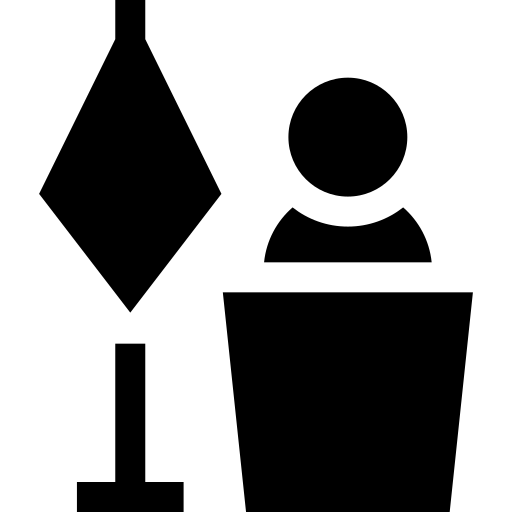
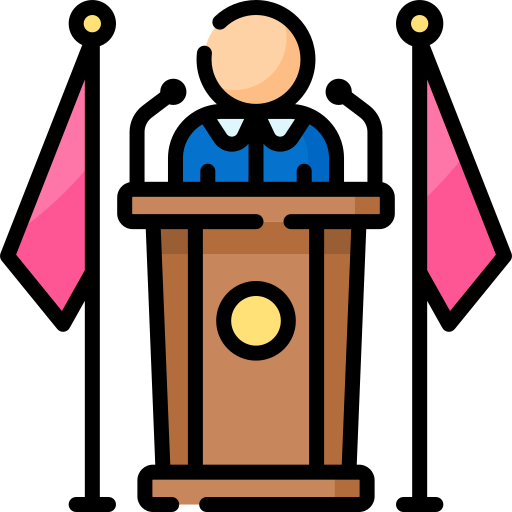
Se añadio una nueva imagen para la aplicacion y se mejoro el maquetado

diff --git a/styles/base.css b/styles/base.css
@@ -562,9 +562,22 @@ video {
   margin: 1.25rem;
 }
 
+.m-2 {
+  margin: 0.5rem;
+}
+
 .mx-auto {
   margin-left: auto;
   margin-right: auto;
+}
+
+.my-3 {
+  margin-top: 0.75rem;
+  margin-bottom: 0.75rem;
+}
+
+.mt-5 {
+  margin-top: 1.25rem;
 }
 
 .grid {
@@ -595,6 +608,10 @@ video {
   height: 8rem;
 }
 
+.h-28 {
+  height: 7rem;
+}
+
 .w-12 {
   width: 3rem;
 }
@@ -605,6 +622,14 @@ video {
 
 .w-32 {
   width: 8rem;
+}
+
+.w-28 {
+  width: 7rem;
+}
+
+.w-20 {
+  width: 5rem;
 }
 
 .flex-initial {
@@ -622,6 +647,10 @@ video {
 
 .grid-cols-1 {
   grid-template-columns: repeat(1, minmax(0, 1fr));
+}
+
+.grid-cols-2 {
+  grid-template-columns: repeat(2, minmax(0, 1fr));
 }
 
 .content-center {
@@ -749,6 +778,26 @@ video {
 
 .p-16 {
   padding: 4rem;
+}
+
+.p-12 {
+  padding: 3rem;
+}
+
+.pt-4 {
+  padding-top: 1rem;
+}
+
+.pb-4 {
+  padding-bottom: 1rem;
+}
+
+.pb-3 {
+  padding-bottom: 0.75rem;
+}
+
+.pb-6 {
+  padding-bottom: 1.5rem;
 }
 
 .text-center {

diff --git a/index.html b/index.html
@@ -9,14 +9,14 @@
 </head>
 <body>
     <main class="bg-emerald-100">
-        <header class="p-16">
+        <header class="p-12">
+            <div class="pb-6">
+                <img src="/img/mayor.png" alt="Logo president" class="h-20 w-20 mx-auto">
+            </div>
             <h1 class="text-center text-4xl p-5 font-bold bg-teal-600 text-white rounded-2xl font-sans">
                 Huelga e inflacion en el Perú
             </h1>
-            <div class="p-3">
-                <img src="/img/mayor.png" alt="Logo president" class="h-32 w-32 mx-auto">
-            </div>
-            <div class="">
+            <div class="mt-5">
                 <p class="font-bold text-2xl text-center">
                     (1987 - 2021)
                 </p>
